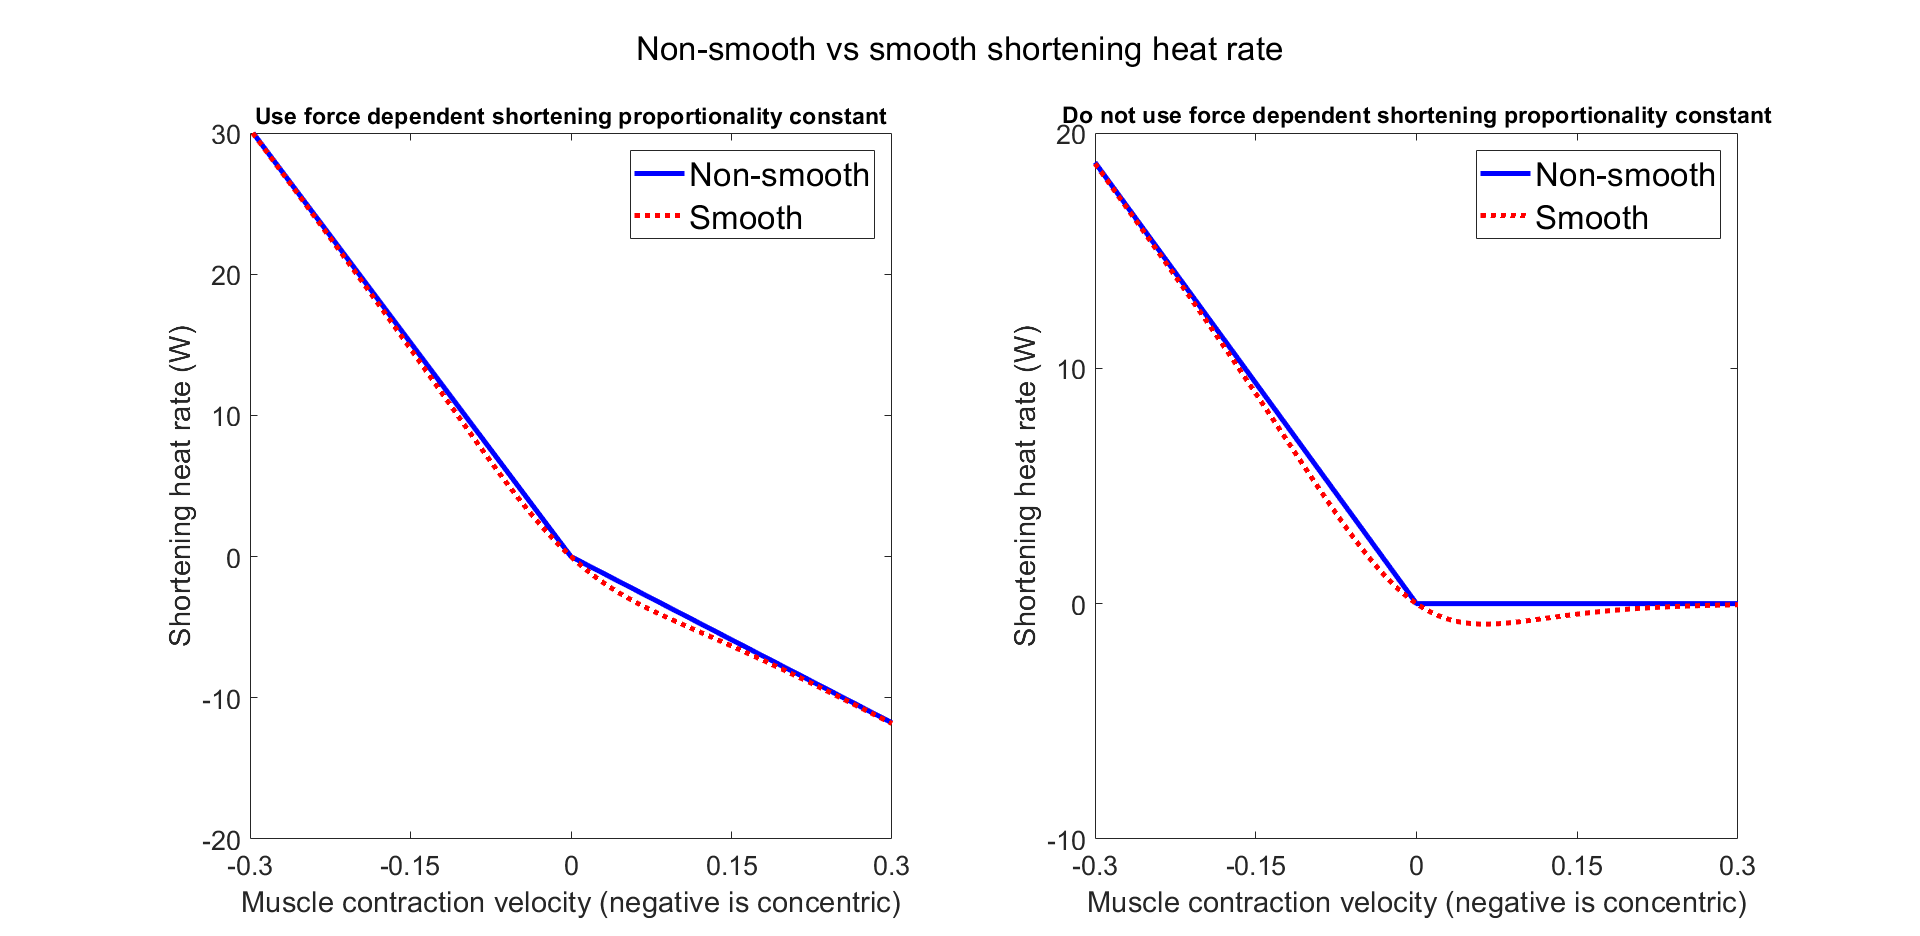
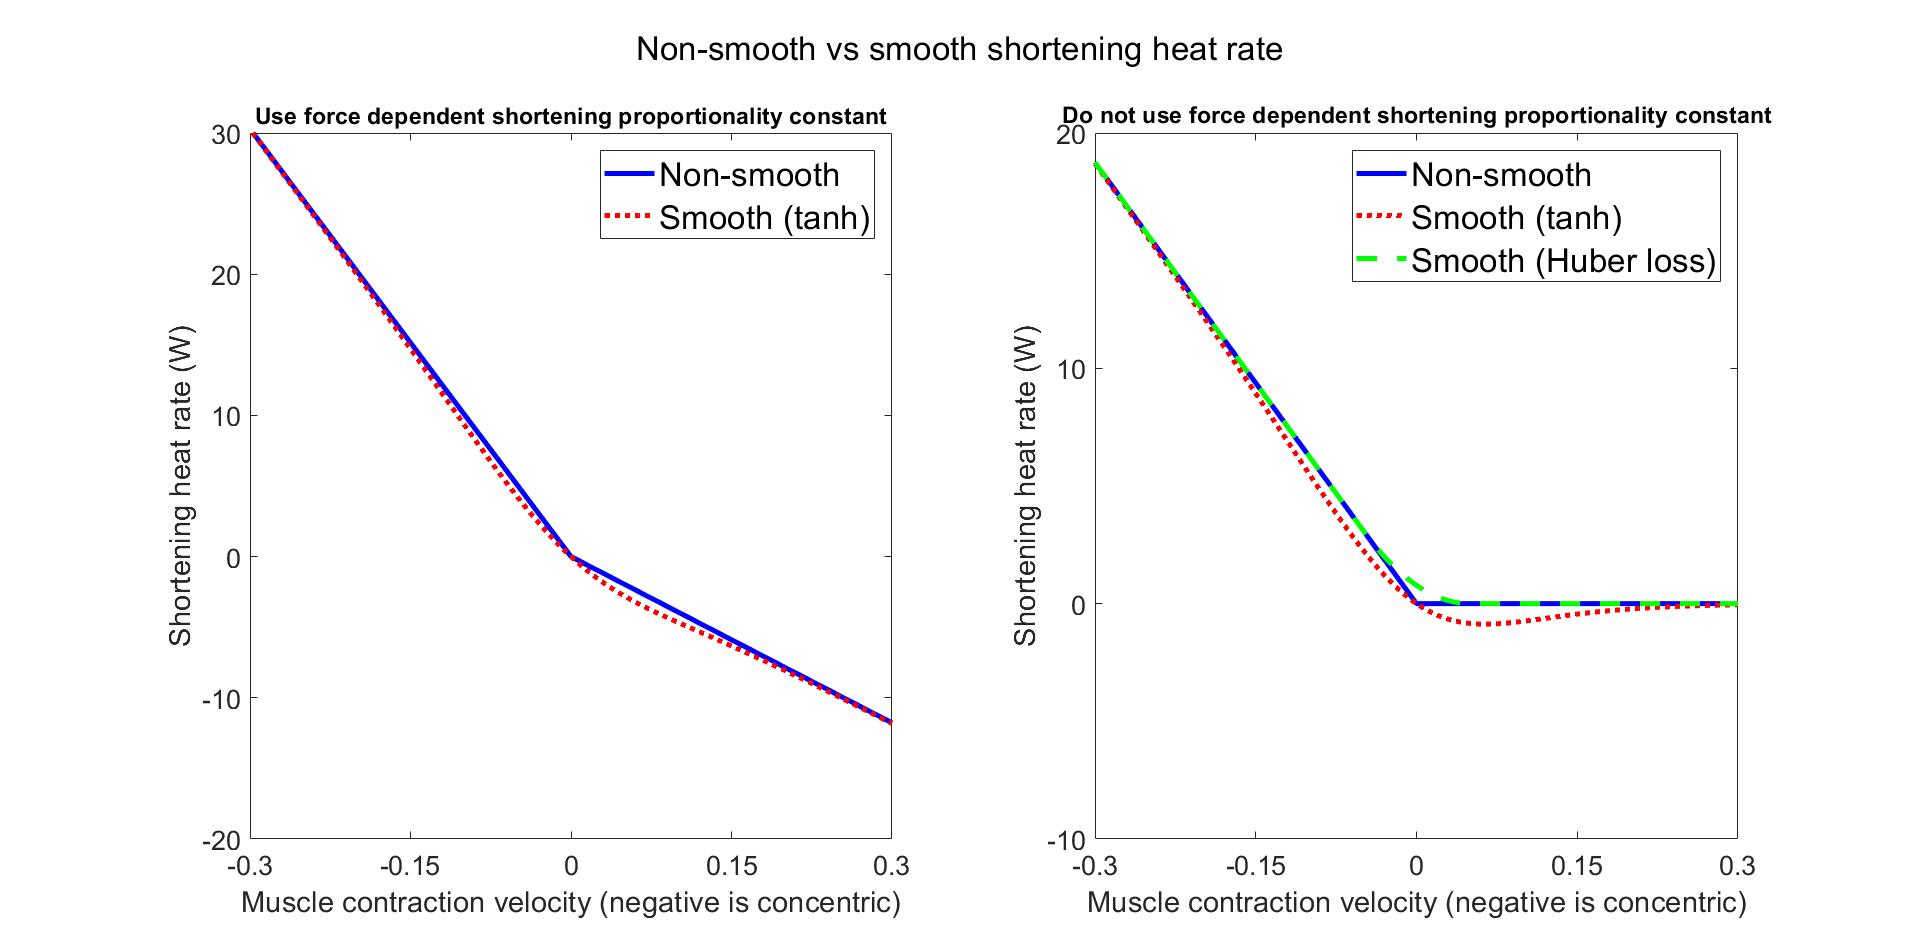
update documentation

diff --git a/Moco/Moco/Components/Bhargava2004Metabolics.h b/Moco/Moco/Components/Bhargava2004Metabolics.h
@@ -3,7 +3,7 @@
 /* -------------------------------------------------------------------------- *
  * OpenSim Moco: Bhargava2004Metabolics.h                                     *
  * -------------------------------------------------------------------------- *
- * Copyright (c) 2019 Stanford University and the Authors                     *
+ * Copyright (c) 2020 Stanford University and the Authors                     *
  *                                                                            *
  * Author(s): Antoine Falisse, Christopher Dembia, Nick Bianco                *
  * Contributors: Tim Dorn, Thomas Uchida                                      *
@@ -80,27 +80,51 @@ private:
 };
 
 /// This class implements the metabolic energy model of Bhargava et al (2004)
-/// and provides an option to use a smooth (i.e., twice continuously
-/// differentiable) approximation. This approximation might be better suited
+/// and provides an option to use smooth (i.e., twice continuously
+/// differentiable) approximations. These approximations might be better suited
 /// for gradient-based optimization algorithms.
-/// In the proposed smooth implementation, conditional if statements were
-/// approximated by using hyperbolic tangent functions (tanh). For example, the
-/// following if statement:
-/// <pre>     y = 0, if x < d </pre>
-/// <pre>     y = a, if x >= d </pre>
+/// We propose two smooth implementations. In the first implementation,
+/// conditional if statements were approximated by using hyperbolic tangent
+/// functions (tanh). For example, the following if statement:
+/// <pre>     y = left, if x <= d </pre>
+/// <pre>     y = right, if x > d </pre>
 /// can be approximated by:
 /// <pre>     f = 0.5 + 0.5 tanh(b(x-d)) </pre>
-/// <pre>     y = a f </pre>
+/// <pre>     y = left + (-left + right) f </pre>
+/// where b is a parameter that determines the smoothness of the transition. In
+/// the second implementation, conditional if statements were approximated by
+/// using Huber loss functions. The Huber loss function has the following form:
+/// <pre>     L(f(x)) = 0.5 f(x)^2, if f(x) <= delta </pre>
+/// <pre>     L(f(x)) = delta(f(x) - 0.5 delta), otherwise. </pre>
+/// This function is quadratic for f(x) <= delta and linear otherwise, with
+/// equal value and slopes of the different sections at the points where
+/// f(x) = delta (https://en.wikipedia.org/wiki/Huber_loss). Conditional if
+/// statements of the form described above can be approximated using a Huber
+/// loss function as follows:
+/// <pre>     shift = 0.5 (1/b) </pre>
+/// <pre>     f = b ((x-d) + shift) </pre>
+/// <pre>     c = left, if f < 0 </pre>
+/// <pre>     c = 0.5 y^2 + left, if f <= delta </pre>
+/// <pre>     c = delta (f - 0.5 delta) + left, otherwise </pre>
+/// <pre>     scale = (right - left) / (x-d) </pre>
+/// <pre>     y = scale (c/b + left (1-1/b)) </pre>
 /// where b is a parameter that determines the smoothness of the transition.
+/// Note that this approximation is piecewise but still continuous.
 ///
 /// The metabolic energy model includes components for activation heat rate,
 /// maintenance heat rate, shortening heat rate, and mechanical work rate.
 ///
 /// The shortening heat rate model differs between concentric contractions and
 /// eccentric contractions. We smoothed the transition between both contraction
-/// types using our smoothing function. The difference between the original
-/// (non-smooth) and the smooth implementations is illustrated in the following
-/// figure:
+/// types using our smoothing functions. Note that when using the force
+/// dependent shortening proportional constant, we only provide the tanh
+/// smoothing option. This is motivated by the fact that the shortening heat
+/// rate is defined by linear functions but with different non-zero constants
+/// of proportionality for concentric and eccentric contractions. It is
+/// therefore easier to smooth the transition between both contraction types
+/// with a tanh function than with a Huber loss function. The difference
+/// between the original (non-smooth) and the smooth implementations is
+/// illustrated in the following figure:
 ///
 /// \htmlonly <style>div.image img[src="SmoothShorteningHeatRate.png"]{width:750px;}</style> \endhtmlonly
 /// @image html SmoothShorteningHeatRate.png "Curves produced using isometricTotalActiveForce=350, fiberForceTotal=250, velocity_smoothing=10"
@@ -110,7 +134,7 @@ private:
 /// if specified by the user, the model only takes positive mechanical work
 /// rate (i.e., work rate resulting from concentric contraction) into account.
 /// In such case, we smoothed the transition between positive rate and zero
-/// using our smoothing function. The difference between the original
+/// using our smoothing functions. The difference between the original
 /// (non-smooth) and the smooth implementations is illustrated in the following
 /// figure:
 ///
@@ -121,7 +145,7 @@ private:
 /// that prevents the total metabolic rate (i.e., total metabolic power) to be
 /// negative. This clamping is done by increasing the shortening heat rate. We
 /// smoothed the transition between positive and negative total metabolic rate
-/// using our smoothing function. The difference between the original
+/// using our smoothing functions. The difference between the original
 /// (non-smooth) and the smooth implementations is illustrated in the following
 /// figure:
 ///
@@ -135,7 +159,7 @@ private:
 /// clamping will cause the sum of the reported individual heat rates and work
 /// rate to differ from the reported metabolic rate. We smoothed the transition
 /// between total heat rate higher and lower than 1.0 W/kg using our smoothing
-/// function. The difference between the original (non-smooth) and the smooth
+/// functions. The difference between the original (non-smooth) and the smooth
 /// implementations is illustrated in the following figure:
 ///
 /// \htmlonly <style>div.image img[src="ClampingTotalHeatRate.png"]{width:750px;}</style> \endhtmlonly

diff --git a/Moco/Tests/testMocoMetabolics.cpp b/Moco/Tests/testMocoMetabolics.cpp
@@ -42,7 +42,7 @@ TEST_CASE("Bhargava2004Metabolics basics") {
     model.addComponent(musclePtr);
     auto& muscle = model.getComponent<DeGrooteFregly2016Muscle>("muscle");
 
-    // Add non-smooth metabolics
+    // Add non-smooth metabolics.
     auto metabolicsPtr_nonSmooth = new Bhargava2004Metabolics();
     metabolicsPtr_nonSmooth->setName("metabolics_nonSmooth");
     metabolicsPtr_nonSmooth->set_include_negative_mechanical_work(false);
@@ -72,7 +72,7 @@ TEST_CASE("Bhargava2004Metabolics basics") {
             model.getComponent<Bhargava2004Metabolics>(
                     "metabolics_negativeWork_nonSmooth");
 
-    // Add smooth (using tanh function) metabolics
+    // Add smooth (using tanh function) metabolics.
     auto metabolicsPtr_smooth_tanh = new Bhargava2004Metabolics();
     metabolicsPtr_smooth_tanh->setName("metabolics_smooth_tanh");
     metabolicsPtr_smooth_tanh->set_use_smoothing(true);
@@ -121,7 +121,7 @@ TEST_CASE("Bhargava2004Metabolics basics") {
     auto& metabolics_negativeWork_smooth_tanh =
             model.getComponent<Bhargava2004Metabolics>(
                     "metabolics_negativeWork_smooth_tanh");
-    // Add smooth (using Huber loss function) metabolics
+    // Add smooth (using Huber loss function) metabolics.
     auto metabolicsPtr_smooth_huber = new Bhargava2004Metabolics();
     metabolicsPtr_smooth_huber->setName("metabolics_smooth_huber");
     metabolicsPtr_smooth_huber->set_use_smoothing(true);
@@ -315,7 +315,7 @@ TEST_CASE("Bhargava2004Metabolics basics") {
             "concentric and eccentric contractions when negative mechanical "
             "work rate is allowed") {
 
-            // Concentric contraction
+            // Concentric contraction.
             double speed = -0.1;
             coord.setSpeedValue(state, speed);
 
@@ -353,7 +353,7 @@ TEST_CASE("Bhargava2004Metabolics basics") {
                     metabolics_negativeWork_smooth_huber.
                             getTotalMechanicalWorkRate(state));
 
-            // Eccentric contraction
+            // Eccentric contraction.
             speed = 0.1;
             coord.setSpeedValue(state, speed);
 

diff --git a/Moco/Moco/Components/Bhargava2004Metabolics.cpp b/Moco/Moco/Components/Bhargava2004Metabolics.cpp
@@ -1,7 +1,7 @@
 /* -------------------------------------------------------------------------- *
  * OpenSim Moco: Bhargava2004Metabolics.cpp                                   *
  * -------------------------------------------------------------------------- *
- * Copyright (c) 2019 Stanford University and the Authors                     *
+ * Copyright (c) 2020 Stanford University and the Authors                     *
  *                                                                            *
  * Author(s): Antoine Falisse, Christopher Dembia, Nick Bianco                *
  * Contributors: Tim Dorn, Thomas Uchida                                      *
